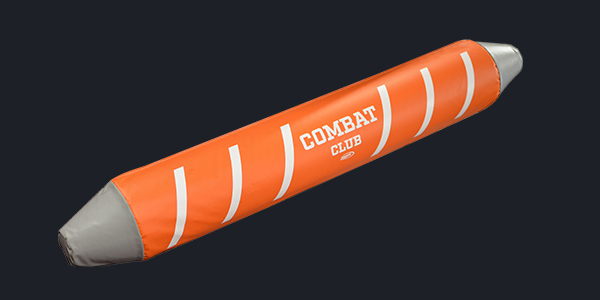
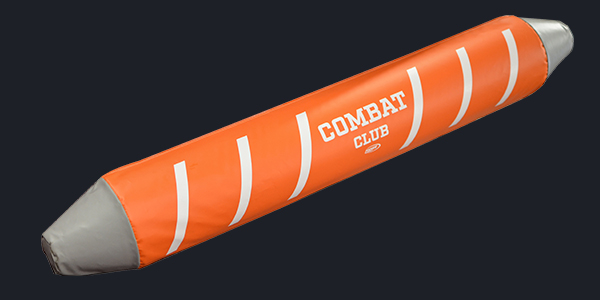
Added pursuers and combat club.

Changed region(s): [[0.06, 0.03, 0.96, 0.93]]

diff --git a/pages/football.html b/pages/football.html
@@ -263,6 +263,27 @@
         <div class="productCardContainer">
 
         <div value="sleds" class="card productCard football-products-list page1 sleds All" style="width: 24rem;">
+                <img id="sku9715apImage" src="../assets/images/products/brute-sled-9715ap.jpg" class="card-img-top" alt="Brute Sled" data-toggle="modal" data-target=".sku9715apImageModal" onclick="sku9715apCaption()">
+                    <div class="card-body productCardBody">
+                      <h5 class="card-title">Brute Sled</h5>
+                      <h6 class="card-text">SKU: 9715AP</h6>
+                      <p>
+                        <a class="btn btn-danger" data-toggle="collapse" href="#bruteSled" role="button" aria-expanded="false" aria-controls="collapseExample">
+                          Description
+                        </a>
+                        <button type="button" class="btn btn-danger" data-toggle="modal" data-target="#getQuoteModal">
+                          Get quote
+                        </button>
+                      </p>
+                      <div class="collapse" id="bruteSled">
+                        <div class="card card-body productCardDescription">
+                          Individual components allow stations to be added as the need arises. Basic sleds can start with man capability and expanded as you desire. A 5 man sled can be easily be broken down to a 2 and a 3 man sled. Sled skids are formed, not cut and welded. A 30 degree angle assures you of a smooth transition over your grass without chewing up the turf. Safe for artificial turf. Each brute sled pad's core is built from high density, 100 lb., impact resistant foam. Durable, 18 oz. vinyl covers are then double and triple stitched to withstand harsh weather and years of hard use. Choose from 6 pad styles and 11 colors for the brute sled. COACHES PLATFORM NOT INCLUDED.
+                        </div>
+                      </div>
+                    </div>
+            </div>
+
+        <div value="sleds" class="card productCard football-products-list page1 sleds All" style="width: 24rem;">
             <img id="sku9708ssImage" src="../assets/images/products/shiver-sled-9708ss.jpg" class="card-img-top" alt="Shiver Sled" data-toggle="modal" data-target=".sku9708ssImageModal" onclick="sku9708ssCaption()">
                 <div class="card-body productCardBody">
                   <h5 class="card-title">Shiver Sled</h5>
@@ -299,27 +320,6 @@
                       <div class="collapse" id="sled9800">
                         <div class="card card-body productCardDescription">
                           Wrap around padded wings on each pad protect your players. Choice of standard or "T" pad. Safely teaches a young player how to gain leverage on an opponent. Main Frame: Sturdy, tough steel construction. Guaranteed for 5 years. All metal surfaces are powder coated to prevent rust. Expandable: Individual components allow stations to be added as the need arises. Basic sleds can start with 2 man capability and expanded as you desire. A 5 man sled can be easily broken down to a 2 and a 3 man sled. Tite-Lock Chassis: New, improved interlocking modular design. Overlapped channel steel construction provides the rigidity needed in a multi-unit sled. Skids: Sled skids are formed, not cut and welded. A 30 degree angle assures you of a smooth transition over your grass without chewing up the turf. Safe for artificial turf. Pad construction and options: Each 9800 series sled pad's core is built from high density, 100 lb. impact resistant foam. Durable, 18 ox. vinyl covers are then double and triple stitched to withstand harsh weather and years of hard use. Standard and "T" pad styles are available for the 9800 series sleds.
-                        </div>
-                      </div>
-                    </div>
-            </div>
-
-        <div value="sleds" class="card productCard football-products-list page1 sleds All" style="width: 24rem;">
-                <img id="sku9715apImage" src="../assets/images/products/brute-sled-9715ap.jpg" class="card-img-top" alt="Brute Sled" data-toggle="modal" data-target=".sku9715apImageModal" onclick="sku9715apCaption()">
-                    <div class="card-body productCardBody">
-                      <h5 class="card-title">Brute Sled</h5>
-                      <h6 class="card-text">SKU: 9715AP</h6>
-                      <p>
-                        <a class="btn btn-danger" data-toggle="collapse" href="#bruteSled" role="button" aria-expanded="false" aria-controls="collapseExample">
-                          Description
-                        </a>
-                        <button type="button" class="btn btn-danger" data-toggle="modal" data-target="#getQuoteModal">
-                          Get quote
-                        </button>
-                      </p>
-                      <div class="collapse" id="bruteSled">
-                        <div class="card card-body productCardDescription">
-                          Individual components allow stations to be added as the need arises. Basic sleds can start with man capability and expanded as you desire. A 5 man sled can be easily be broken down to a 2 and a 3 man sled. Sled skids are formed, not cut and welded. A 30 degree angle assures you of a smooth transition over your grass without chewing up the turf. Safe for artificial turf. Each brute sled pad's core is built from high density, 100 lb., impact resistant foam. Durable, 18 oz. vinyl covers are then double and triple stitched to withstand harsh weather and years of hard use. Choose from 6 pad styles and 11 colors for the brute sled. COACHES PLATFORM NOT INCLUDED.
                         </div>
                       </div>
                     </div>
@@ -3240,6 +3240,27 @@
         </div>
 
         <div value="shields" class="card productCard football-products-list page12 shields All" style="width: 24rem;">
+                <img id="hd3500Image" src="../assets/images/products/combat-club-hd3500.jpg" class="card-img-top" alt="Combat Club" data-toggle="modal" data-target=".hd3500ImageModal" onclick="hd3500Caption()">
+                    <div class="card-body productCardBody">
+                      <h5 class="card-title">Combat Club</h5>
+                      <h6 class="card-text">SKU: HD3500</h6>
+                      <p>
+                        <a class="btn btn-danger" data-toggle="collapse" href="#combatClub" role="button" aria-expanded="false" aria-controls="collapseExample">
+                          Description
+                        </a>
+                        <button type="button" class="btn btn-danger" data-toggle="modal" data-target="#getQuoteModal">
+                          Get quote
+                        </button>
+                      </p>
+                      <div class="collapse" id="combatClub">
+                        <div class="card card-body productCardDescription">
+                            Improve lineman and skill position technique and help test ball security. Five strategic handle grips. 72"L x 10"Dia. Weight: 7lbs.
+                        </div>
+                      </div>
+                    </div>
+            </div>
+
+        <div value="shields" class="card productCard football-products-list page12 shields All" style="width: 24rem;">
                 <img id="hd100Image" src="../assets/images/products/curved-body-shield-hd100.jpg" class="card-img-top" alt="Curved Body Shield" data-toggle="modal" data-target=".hd100ImageModal" onclick="hd100Caption()">
                     <div class="card-body productCardBody">
                       <h5 class="card-title">Curved Body Shield</h5>
@@ -3618,19 +3639,61 @@
                 </div>
 
             <div value="dummies" class="card productCard football-products-list page13 dummies All" style="width: 24rem;">
-                <img id="sd14Image" src="../assets/images/products/square-blocking-dummy-sd14.jpg" class="card-img-top" alt="Square Blocking Dummy" data-toggle="modal" data-target=".sd14ImageModal" onclick="sd14Caption()">
+                <img id="pur101rImage" src="../assets/images/products/rocket-pursuer-pur101r.jpg" class="card-img-top" alt="Rocket Pursuer" data-toggle="modal" data-target=".pur101rImageModal" onclick="pur101rCaption()">
                     <div class="card-body productCardBody">
-                      <h5 class="card-title">Square Blocking Dummy</h5>
-                      <h6 class="card-text">SKU: SD14</h6>
+                      <h5 class="card-title">Rocket Pursuer</h5>
+                      <h6 class="card-text">SKU: PUR101R</h6>
                       <p>
-                        <a class="btn btn-danger" data-toggle="collapse" href="#squareBlockingDummy" role="button" aria-expanded="false" aria-controls="collapseExample">
+                        <a class="btn btn-danger" data-toggle="collapse" href="#rocketPursuer" role="button" aria-expanded="false" aria-controls="collapseExample">
                           Description
                         </a>
                         <button type="button" class="btn btn-danger" data-toggle="modal" data-target="#getQuoteModal">
                           Get quote
                         </button>
                       </p>
-                      <div class="collapse" id="squareBlockingDummy">
+                      <div class="collapse" id="rocketPursuer">
+                        <div class="card card-body productCardDescription">
+                            The Pursuer is a tool to help improve tackling techniques by hitting a moving target. The all foam construction makes the Pursuer the most affordable and durable moving tackle system on the market. 72" tall at 34 lbs.
+                        </div>
+                      </div>
+                    </div>
+            </div>
+
+            <div value="dummies" class="card productCard football-products-list page13 dummies All" style="width: 24rem;">
+                <img id="pur102sImage" src="../assets/images/products/spartan-pursuer-pur102s.jpg" class="card-img-top" alt="Spartan Pursuer" data-toggle="modal" data-target=".pur102sImageModal" onclick="pur102sCaption()">
+                    <div class="card-body productCardBody">
+                      <h5 class="card-title">Spartan Pursuer</h5>
+                      <h6 class="card-text">SKU: PUR102S</h6>
+                      <p>
+                        <a class="btn btn-danger" data-toggle="collapse" href="#spartanPursuer" role="button" aria-expanded="false" aria-controls="collapseExample">
+                          Description
+                        </a>
+                        <button type="button" class="btn btn-danger" data-toggle="modal" data-target="#getQuoteModal">
+                          Get quote
+                        </button>
+                      </p>
+                      <div class="collapse" id="spartanPursuer">
+                        <div class="card card-body productCardDescription">
+                            The Pursuer is a tool to help improve tackling techniques by hitting a moving target. The all foam construction makes the Pursuer the most affordable and durable moving tackle system on the market. 62" tall at 28 lbs.
+                        </div>
+                      </div>
+                    </div>
+            </div>
+
+            <div value="dummies" class="card productCard football-products-list page13 dummies All" style="width: 24rem;">
+                <img id="sd14Image" src="../assets/images/products/square-blocking-dummy-sd14.jpg" class="card-img-top" alt="Square Blocking Dummy" data-toggle="modal" data-target=".sd14ImageModal" onclick="sd14Caption()">
+                    <div class="card-body productCardBody">
+                      <h5 class="card-title">Square Blocking Dummy</h5>
+                      <h6 class="card-text">SKU: SD14</h6>
+                      <p>
+                        <a class="btn btn-danger" data-toggle="collapse" href="#squareBlockingDummy14" role="button" aria-expanded="false" aria-controls="collapseExample">
+                          Description
+                        </a>
+                        <button type="button" class="btn btn-danger" data-toggle="modal" data-target="#getQuoteModal">
+                          Get quote
+                        </button>
+                      </p>
+                      <div class="collapse" id="squareBlockingDummy14">
                         <div class="card card-body productCardDescription">
                             Increases player agility. Stay-in-place trapezoidal design. Backside handles for stand up practice. Special design helps reduce ankle injuries. End handle for moving on and off field. 50" L x 14"H x 14" Base x 14" Top Step Over Dummy.
                         </div>
@@ -3644,14 +3707,14 @@
                             <h5 class="card-title">Square Blocking Dummy 46"H x 15" x 15"</h5>
                             <h6 class="card-text">SKU: SD15</h6>
                             <p>
-                              <a class="btn btn-danger" data-toggle="collapse" href="#squareBlockingDummy" role="button" aria-expanded="false" aria-controls="collapseExample">
+                              <a class="btn btn-danger" data-toggle="collapse" href="#squareBlockingDummy15" role="button" aria-expanded="false" aria-controls="collapseExample">
                                 Description
                               </a>
                               <button type="button" class="btn btn-danger" data-toggle="modal" data-target="#getQuoteModal">
                                 Get quote
                               </button>
                             </p>
-                            <div class="collapse" id="squareBlockingDummy">
+                            <div class="collapse" id="squareBlockingDummy15">
                               <div class="card card-body productCardDescription">
                                 Increases player agility. Stay-in-place trapezoidal design. Backside handles for stand up practice. Special design helps reduce ankle injuries. End handle for moving on and off field.
                               </div>
@@ -3716,112 +3779,16 @@
                       </p>
                       <div class="collapse" id="heavyweightDummy70">
                         <div class="card card-body productCardDescription">
-                            Manufactured with high grade foams in combination. Strong, firm and resilient. Stands up to rigorous practices.
-                        </div>
-                      </div>
-                    </div>
-            </div>
+                            Manufactured with high grade foams in combination. Strong, firm and resilient. Stands up to rigorous practices.<br>
+                            <div id="new-text-color1">
+                              Also avaiable:<br>
+                              HW65: 16"Dia. x 48"H<br>
+                              HW60: 16"Dia. x 42"H<br>
+                              HW45: 16"Dia. x 54"H<br>
+                              HW40: 16"Dia. x 48"H<br>
+                              HW35: 16"Dia. x 42"H
 
-            <div value="dummies" class="card productCard football-products-list page14 dummies All" style="width: 24rem;">
-              <img id="hw65Image" src="../assets/images/products/fisher-image-coming-soon.jpg" class="card-img-top" alt="16&quot; Dia. x 48&quot;H Heavyweight Dummy 65lb" data-toggle="modal" data-target=".hw65ImageModal" onclick="hw65Caption()">
-                  <div class="card-body productCardBody">
-                    <h5 class="card-title">16" Dia. x 48"H Heavyweight Dummy 65lb</h5>
-                    <h6 class="card-text">SKU: HW65</h6>
-                    <p>
-                      <a class="btn btn-danger" data-toggle="collapse" href="#heavyweightDummy65" role="button" aria-expanded="false" aria-controls="collapseExample">
-                        Description
-                      </a>
-                      <button type="button" class="btn btn-danger" data-toggle="modal" data-target="#getQuoteModal">
-                        Get quote
-                      </button>
-                    </p>
-                    <div class="collapse" id="heavyweightDummy65">
-                      <div class="card card-body productCardDescription">
-                        Manufactured with high grade foams in combination. Strong, firm and resilient. Stands up to rigorous practices.
-                      </div>
-                    </div>
-                  </div>
-          </div>
-  
-          <div value="dummies" class="card productCard football-products-list page14 dummies All" style="width: 24rem;">
-                  <img id="hw60Image" src="../assets/images/products/heavyweight-dummy-hw60.jpg" class="card-img-top" alt="16&quot; Dia. x 42&quot;H Heavyweight Dummy 60lb" data-toggle="modal" data-target=".hw60ImageModal" onclick="hw60Caption()">
-                      <div class="card-body productCardBody">
-                        <h5 class="card-title">16" Dia. x 42"H Heavyweight Dummy 60lb</h5>
-                        <h6 class="card-text">SKU: HW60</h6>
-                        <p>
-                          <a class="btn btn-danger" data-toggle="collapse" href="#heavyweightDummy60" role="button" aria-expanded="false" aria-controls="collapseExample">
-                            Description
-                          </a>
-                          <button type="button" class="btn btn-danger" data-toggle="modal" data-target="#getQuoteModal">
-                            Get quote
-                          </button>
-                        </p>
-                        <div class="collapse" id="heavyweightDummy60">
-                          <div class="card card-body productCardDescription">
-                            Manufactured with high grade foams in combination. Strong, firm and resilient. Stands up to rigorous practices.
-                          </div>
-                        </div>
-                      </div>
-              </div>
-  
-          <div value="dummies" class="card productCard football-products-list page14 dummies All" style="width: 24rem;">
-                  <img id="hw45Image" src="../assets/images/products/fisher-image-coming-soon.jpg" class="card-img-top" alt="16&quot; Dia. x 54&quot;H Heavyweight Dummy" data-toggle="modal" data-target=".hw45ImageModal" onclick="hw45Caption()">
-                      <div class="card-body productCardBody">
-                          <h5 class="card-title">16" Dia. x 54"H Heavyweight Dummy</h5>
-                          <h6 class="card-text">SKU: HW45</h6>
-                          <p>
-                            <a class="btn btn-danger" data-toggle="collapse" href="#heavyweightDummy45" role="button" aria-expanded="false" aria-controls="collapseExample">
-                              Description
-                            </a>
-                            <button type="button" class="btn btn-danger" data-toggle="modal" data-target="#getQuoteModal">
-                              Get quote
-                            </button>
-                          </p>
-                          <div class="collapse" id="heavyweightDummy45">
-                            <div class="card card-body productCardDescription">
-                                Manufactured with high grade foams in combination. Strong, firm and resilient. Stands up to rigorous practices.
                             </div>
-                          </div>
-                      </div>
-              </div>
-
-          <div value="dummies" class="card productCard football-products-list page15 dummies All" style="width: 24rem;">
-            <img id="hw40Image" src="../assets/images/products/fisher-image-coming-soon.jpg" class="card-img-top" alt="16&quot; Dia. x 48&quot;H Heavyweight Dummy 40lb" data-toggle="modal" data-target=".hw40ImageModal" onclick="hw40Caption()">
-                <div class="card-body productCardBody">
-                  <h5 class="card-title">16" Dia. x 48"H Heavyweight Dummy 40lb</h5>
-                  <h6 class="card-text">SKU: HW40</h6>
-                  <p>
-                    <a class="btn btn-danger" data-toggle="collapse" href="#heavyweightDummy40" role="button" aria-expanded="false" aria-controls="collapseExample">
-                      Description
-                    </a>
-                    <button type="button" class="btn btn-danger" data-toggle="modal" data-target="#getQuoteModal">
-                      Get quote
-                    </button>
-                  </p>
-                  <div class="collapse" id="heavyweightDummy40">
-                    <div class="card card-body productCardDescription">
-                        Manufactured with high grade foams in combination. Strong, firm and resilient. Stands up to rigorous practices.
-                    </div>
-                  </div>
-                </div>
-        </div>
-
-        <div value="dummies" class="card productCard football-products-list page15 dummies All" style="width: 24rem;">
-                <img id="hw35Image" src="../assets/images/products/fisher-image-coming-soon.jpg" class="card-img-top" alt="16&quot; Dia. x 42&quot;H Heavyweight Dummy 35lb" data-toggle="modal" data-target=".hw35ImageModal" onclick="hw35Caption()">
-                    <div class="card-body productCardBody">
-                      <h5 class="card-title">16" Dia. x 42"H Heavyweight Dummy 35lb</h5>
-                      <h6 class="card-text">SKU: HW35</h6>
-                      <p>
-                        <a class="btn btn-danger" data-toggle="collapse" href="#heavyweightDummy35" role="button" aria-expanded="false" aria-controls="collapseExample">
-                          Description
-                        </a>
-                        <button type="button" class="btn btn-danger" data-toggle="modal" data-target="#getQuoteModal">
-                          Get quote
-                        </button>
-                      </p>
-                      <div class="collapse" id="heavyweightDummy35">
-                        <div class="card card-body productCardDescription">
-                            Manufactured with high grade foams in combination. Strong, firm and resilient. Stands up to rigorous practices.
                         </div>
                       </div>
                     </div>
@@ -6096,6 +6063,13 @@
               <div id="sku9601Caption" class="imageModalCaption"></div>
             </div>
       </div>
+
+    <div class="modal fade imageModal hd3500ImageModal" tabindex="-1" role="dialog" aria-labelledby="myExtraLargeModalLabel" aria-hidden="true">
+        <div class="modal-dialog modal-xl modalExpandImageBody">
+              <img id="hd3500Image" src="../assets/images/products/combat-club-hd3500.jpg">
+              <div id="hd3500Caption" class="imageModalCaption"></div>
+            </div>
+      </div>
     
     <div class="modal fade imageModal hd100ImageModal" tabindex="-1" role="dialog" aria-labelledby="myExtraLargeModalLabel" aria-hidden="true">
         <div class="modal-dialog modal-xl modalExpandImageBody">
@@ -6227,6 +6201,20 @@
         <div class="modal-dialog modal-xl modalExpandImageBody">
               <img id="hr426Image" src="../assets/images/products/junior-half-round-hr426.jpg">
               <div id="hr426Caption" class="imageModalCaption"></div>
+            </div>
+      </div>
+
+      <div class="modal fade imageModal pur101rImageModal" tabindex="-1" role="dialog" aria-labelledby="myExtraLargeModalLabel" aria-hidden="true">
+        <div class="modal-dialog modal-xl modalExpandImageBody">
+              <img id="pur101rImage" src="../assets/images/products/rocket-pursuer-pur101r.jpg">
+              <div id="pur101rCaption" class="imageModalCaption"></div>
+            </div>
+      </div>
+
+      <div class="modal fade imageModal pur102sImageModal" tabindex="-1" role="dialog" aria-labelledby="myExtraLargeModalLabel" aria-hidden="true">
+        <div class="modal-dialog modal-xl modalExpandImageBody">
+              <img id="pur102sImage" src="../assets/images/products/spartan-pursuer-pur102s.jpg">
+              <div id="pur102sCaption" class="imageModalCaption"></div>
             </div>
       </div>
 

diff --git a/assets/js/main.js b/assets/js/main.js
@@ -2847,6 +2847,10 @@ function sku9601Caption () {
   document.getElementById("sku9601Caption").innerHTML = document.getElementById("sku9601Image").alt;
 };
 
+function hd3500Caption () {
+  document.getElementById("hd3500Caption").innerHTML = document.getElementById("hd3500Image").alt;
+};
+
 function hd100Caption () {
   document.getElementById("hd100Caption").innerHTML = document.getElementById("hd100Image").alt;
 };
@@ -2922,6 +2926,14 @@ function sku10003Caption () {
 
 function hr426Caption () {
   document.getElementById("hr426Caption").innerHTML = document.getElementById("hr426Image").alt;
+};
+
+function pur101rCaption () {
+  document.getElementById("pur101rCaption").innerHTML = document.getElementById("pur101rImage").alt;
+};
+
+function pur102sCaption () {
+  document.getElementById("pur102sCaption").innerHTML = document.getElementById("pur102sImage").alt;
 };
 
 function sd14Caption () {
